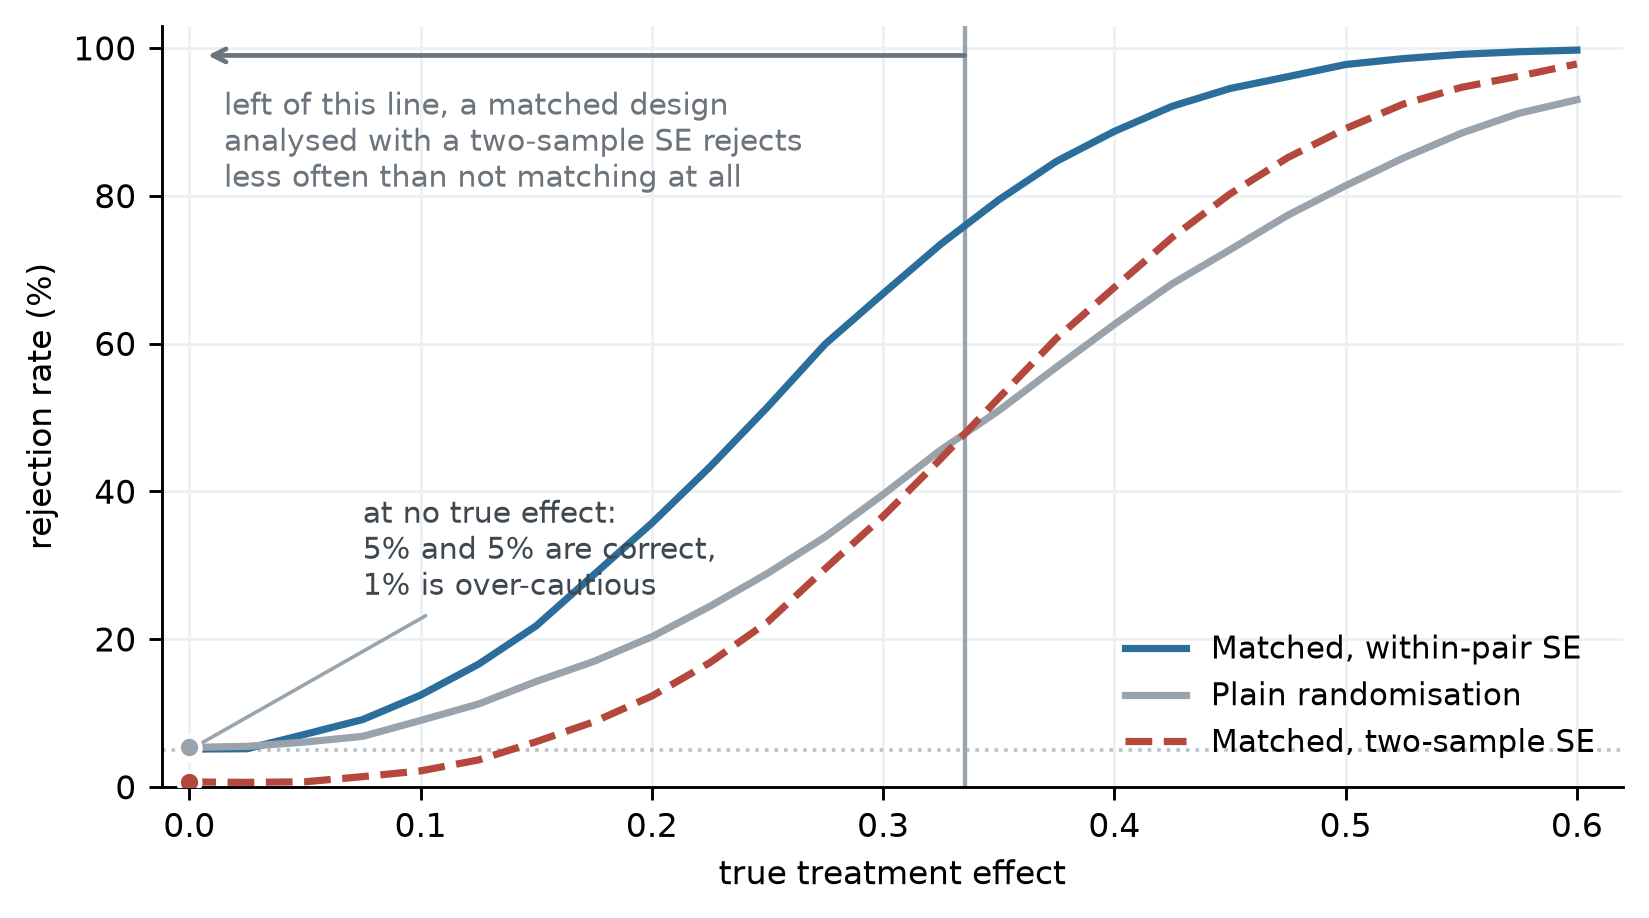
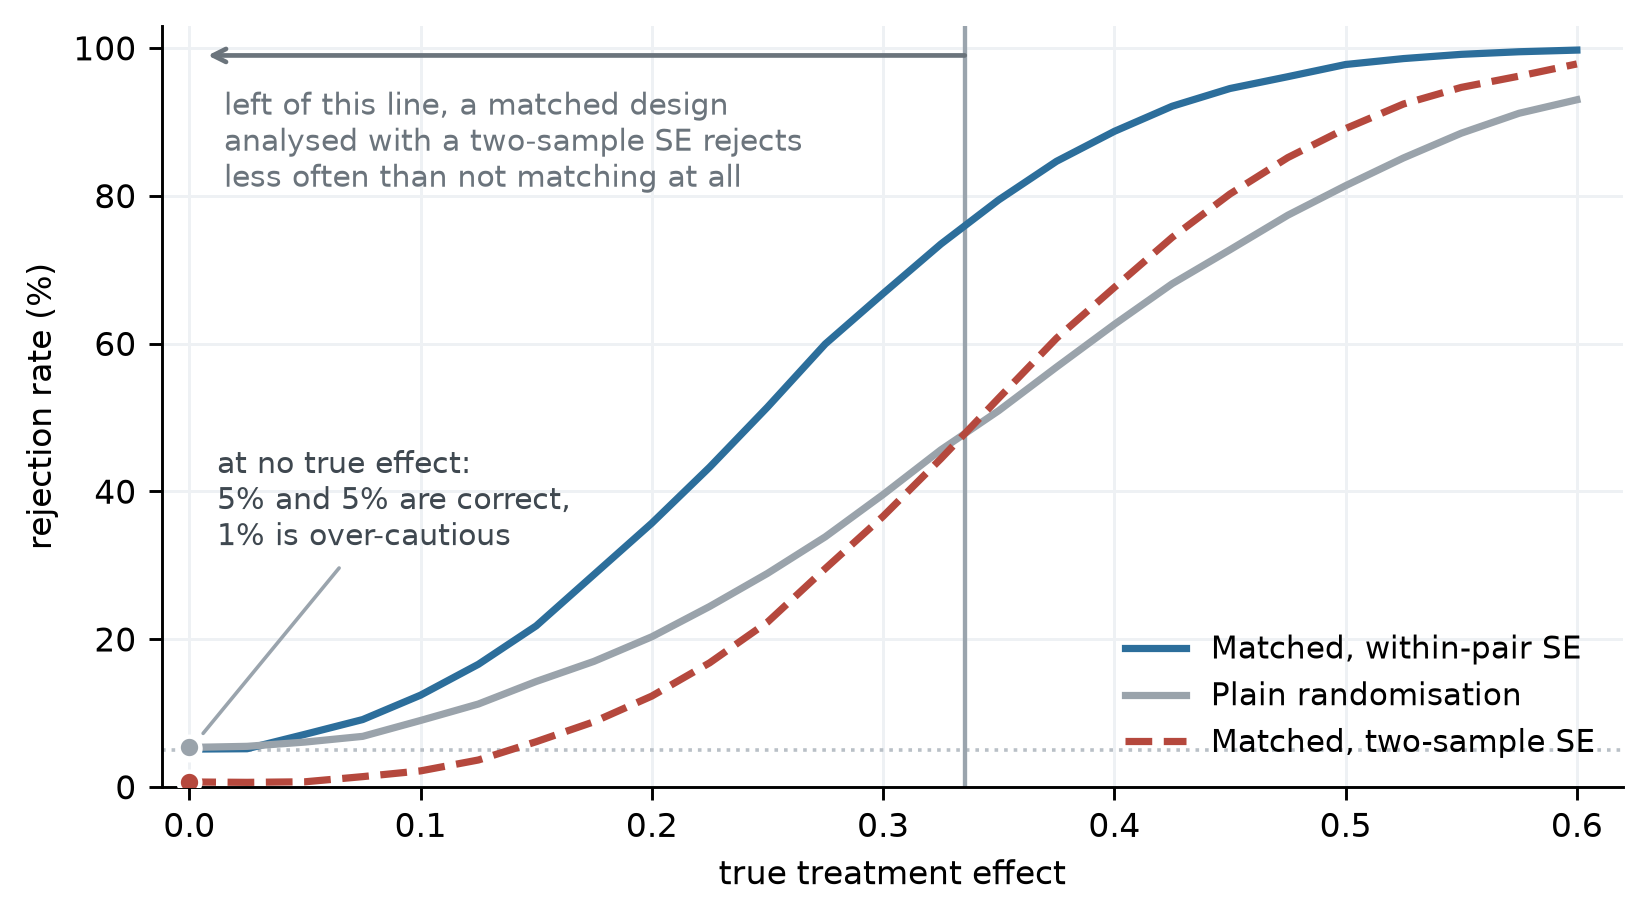
Align the sinks tick labels with the slider thumb
The five labels were laid out as equal flex boxes, which puts their centres at
(k + 0.5)/5 of the width while the thumb for value k sits at k/4 of the track.
Only the middle label agreed, so 2 and 6 appeared crowded towards 4. Each label
is now positioned at the thumb's own centre, half a thumb in from each end of
the travel. Measured on the rendered page the centres are 8, 203.8, 399.5,
595.3 and 791 across a 799px track, against 79.9, 239.7, 399.5, 559.3 and 719.1
before.

Also moves the no-effect note on the power plot out to the left margin, where
it no longer crosses the rising curves.

diff --git a/docs/posts/pairwise-matching/index.html b/docs/posts/pairwise-matching/index.html
@@ -77,7 +77,10 @@ ul.task-list li input[type="checkbox"] {
 }</script>
 <script src="https://cdn.jsdelivr.net/npm/requirejs@2.3.6/require.min.js" integrity="sha384-c9c+LnTbwQ3aujuU7ULEPVvgLs+Fn6fJUvIGTsuu1ZcCf11fiEubah0ttpca4ntM sha384-6V1/AdqZRWk1KAlWbKBlGhN7VG4iE/yAZcO6NZPMF8od0vukrvr0tg4qY6NSrItx" crossorigin="anonymous"></script>
 
+
+
 <script type="application/javascript">define('jquery', [],function() {return window.jQuery;})</script>
+
 
   <script src="https://cdnjs.cloudflare.com/polyfill/v3/polyfill.min.js?features=es6"></script>
   <script defer="" src="https://cdn.jsdelivr.net/npm/mathjax@4/tex-chtml.js" type="text/javascript"></script>
@@ -522,37 +525,37 @@ Table&nbsp;1: Optimal against greedy pairing on the same samples. Greedy loses s
 <style type="text/css">
 </style>
 
-<table id="T_49d6a" class="cell caption-top table table-sm table-striped small">
+<table id="T_18522" class="cell caption-top table table-sm table-striped small">
 <thead>
 <tr class="header">
-<th id="T_49d6a_level0_col0" class="col_heading level0 col0" data-quarto-table-cell-role="th">Sample</th>
-<th id="T_49d6a_level0_col1" class="col_heading level0 col1" data-quarto-table-cell-role="th">Total D<sup>2</sup>, optimal</th>
-<th id="T_49d6a_level0_col2" class="col_heading level0 col2" data-quarto-table-cell-role="th">Total D<sup>2</sup>, greedy</th>
-<th id="T_49d6a_level0_col3" class="col_heading level0 col3" data-quarto-table-cell-role="th">Worst pair, optimal</th>
-<th id="T_49d6a_level0_col4" class="col_heading level0 col4" data-quarto-table-cell-role="th">Worst pair, greedy</th>
+<th id="T_18522_level0_col0" class="col_heading level0 col0" data-quarto-table-cell-role="th">Sample</th>
+<th id="T_18522_level0_col1" class="col_heading level0 col1" data-quarto-table-cell-role="th">Total D<sup>2</sup>, optimal</th>
+<th id="T_18522_level0_col2" class="col_heading level0 col2" data-quarto-table-cell-role="th">Total D<sup>2</sup>, greedy</th>
+<th id="T_18522_level0_col3" class="col_heading level0 col3" data-quarto-table-cell-role="th">Worst pair, optimal</th>
+<th id="T_18522_level0_col4" class="col_heading level0 col4" data-quarto-table-cell-role="th">Worst pair, greedy</th>
 </tr>
 </thead>
 <tbody>
 <tr class="odd">
-<td id="T_49d6a_row0_col0" class="data row0 col0">N = 100, k = 4</td>
-<td id="T_49d6a_row0_col1" class="data row0 col1">63.0</td>
-<td id="T_49d6a_row0_col2" class="data row0 col2">82.1 (+30%)</td>
-<td id="T_49d6a_row0_col3" class="data row0 col3">5.47</td>
-<td id="T_49d6a_row0_col4" class="data row0 col4">10.41 (1.9×)</td>
+<td id="T_18522_row0_col0" class="data row0 col0">N = 100, k = 4</td>
+<td id="T_18522_row0_col1" class="data row0 col1">63.0</td>
+<td id="T_18522_row0_col2" class="data row0 col2">82.1 (+30%)</td>
+<td id="T_18522_row0_col3" class="data row0 col3">5.47</td>
+<td id="T_18522_row0_col4" class="data row0 col4">10.41 (1.9×)</td>
 </tr>
 <tr class="even">
-<td id="T_49d6a_row1_col0" class="data row1 col0">N = 200, k = 4</td>
-<td id="T_49d6a_row1_col1" class="data row1 col1">78.5</td>
-<td id="T_49d6a_row1_col2" class="data row1 col2">113.2 (+44%)</td>
-<td id="T_49d6a_row1_col3" class="data row1 col3">4.70</td>
-<td id="T_49d6a_row1_col4" class="data row1 col4">14.80 (3.1×)</td>
+<td id="T_18522_row1_col0" class="data row1 col0">N = 200, k = 4</td>
+<td id="T_18522_row1_col1" class="data row1 col1">78.5</td>
+<td id="T_18522_row1_col2" class="data row1 col2">113.2 (+44%)</td>
+<td id="T_18522_row1_col3" class="data row1 col3">4.70</td>
+<td id="T_18522_row1_col4" class="data row1 col4">14.80 (3.1×)</td>
 </tr>
 <tr class="odd">
-<td id="T_49d6a_row2_col0" class="data row2 col0">N = 200, k = 8</td>
-<td id="T_49d6a_row2_col1" class="data row2 col1">409.1</td>
-<td id="T_49d6a_row2_col2" class="data row2 col2">505.0 (+23%)</td>
-<td id="T_49d6a_row2_col3" class="data row2 col3">10.20</td>
-<td id="T_49d6a_row2_col4" class="data row2 col4">54.08 (5.3×)</td>
+<td id="T_18522_row2_col0" class="data row2 col0">N = 200, k = 8</td>
+<td id="T_18522_row2_col1" class="data row2 col1">409.1</td>
+<td id="T_18522_row2_col2" class="data row2 col2">505.0 (+23%)</td>
+<td id="T_18522_row2_col3" class="data row2 col3">10.20</td>
+<td id="T_18522_row2_col4" class="data row2 col4">54.08 (5.3×)</td>
 </tr>
 </tbody>
 </table>
@@ -633,11 +636,11 @@ Figure&nbsp;1: How much data each design is worth. A bar of two means the experi
 .sk-wrap .sk-readout b { color:#21252b; font-variant-numeric:tabular-nums; }
 .sk-wrap .sk-sep { margin:0 .55rem; opacity:.45; }
 .sk-wrap input[type=range] { width:100%; margin:0; accent-color:#2c6e9b; }
-.sk-wrap .sk-labels { display:flex; justify-content:space-between;
-  font-size:.82rem; color:#8a929a; margin-top:.3rem; padding:0 9px; }
-.sk-wrap .sk-labels span { cursor:pointer; flex:1; text-align:center; }
-.sk-wrap .sk-labels span:first-child { text-align:left; }
-.sk-wrap .sk-labels span:last-child { text-align:right; }
+.sk-wrap .sk-labels { position:relative; height:1.15rem; margin-top:.3rem;
+  font-size:.82rem; color:#8a929a; --thumb:16px; }
+.sk-wrap .sk-labels span { position:absolute; cursor:pointer;
+  white-space:nowrap; transform:translateX(-50%);
+  left:calc(var(--thumb) / 2 + var(--p) * (100% - var(--thumb))); }
 .sk-wrap .sk-labels span.sk-on { color:#2c4a63; font-weight:600; }
 </style>
 <div class="sk-wrap" id="sk-demo">
@@ -645,7 +648,7 @@ Figure&nbsp;1: How much data each design is worth. A bar of two means the experi
   <div class="sk-readout"></div>
   <input type="range" min="0" max="4" step="1" value="0" aria-label="Number of sinks added">
   <div class="sk-labels">
-    <span>0</span><span>2</span><span>4</span><span>6</span><span>8</span>
+    <span style="--p:0">0</span><span style="--p:.25">2</span><span style="--p:.5">4</span><span style="--p:.75">6</span><span style="--p:1">8</span>
   </div>
 </div>
 <script>/* Sinks: excluding the units that have nothing near them.
@@ -658,7 +661,7 @@ Figure&nbsp;1: How much data each design is worth. A bar of two means the experi
 (function () {
   var root = document.getElementById("sk-demo");
   if (!root) return;
-  var D = {"pts": [[-0.0911, -0.6015], [-0.4188, 0.122], [-1.4702, -1.0021], [-1.0987, 0.5612], [-0.5339, 0.1196], [0.4792, 0.028], [-0.6636, 0.1425], [0.4457, 0.2838], [-0.2276, -1.5344], [-0.6238, -0.3738], [0.8317, -1.5537], [-0.3263, -1.1296], [0.9926, -0.7803], [-0.7276, 0.156], [0.6794, -0.1952], [-0.6435, 0.0267], [0.171, 0.8508], [-0.3005, -0.7518], [-0.1136, 0.2227], [-1.4093, -0.4583], [-0.0128, -0.9811], [1.1991, -0.8328], [-0.7472, -0.3576], [-0.5001, 1.0954], [-0.2181, 0.4575], [-1.3394, -0.5572], [-0.1043, 0.5867], [1.3365, -0.6999], [0.5602, 0.3027], [0.2677, -0.3245], [-0.6966, -0.5368], [-0.4634, 0.1026], [-0.6107, -0.228], [-0.4152, 0.8093], [0.4344, 0.2358], [0.0887, 1.6896], [1.4878, -0.2479], [-0.3693, 0.0476], [1.3082, 0.2694], [1.1168, -0.315], [2.8499, 3.1707], [-2.6232, 1.3199], [2.3447, -2.1123], [0.1554, 2.9732]], "states": [{"sinks": 0, "dropped": [], "pairs": [[43, 40, 7.299], [16, 35, 0.7104], [4, 15, 0.0206], [37, 18, 0.096], [11, 8, 0.1736], [0, 20, 0.1502], [9, 32, 0.0214], [31, 1, 0.0024], [24, 26, 0.0296], [21, 12, 0.0454], [10, 42, 2.601], [7, 28, 0.0135], [23, 33, 0.0891], [30, 17, 0.2031], [27, 39, 0.1964], [6, 13, 0.0043], [34, 5, 0.0452], [25, 2, 0.2151], [14, 29, 0.1861], [19, 22, 0.4485], [36, 38, 0.2999], [3, 41, 2.8997]], "worst": 7.298955022521012, "total": 15.750571077108093}, {"sinks": 2, "dropped": [40, 41], "pairs": [[6, 15, 0.0138], [1, 37, 0.008], [11, 8, 0.1736], [0, 20, 0.1502], [31, 4, 0.0053], [9, 32, 0.0214], [21, 12, 0.0454], [7, 28, 0.0135], [42, 10, 2.601], [23, 33, 0.0891], [30, 17, 0.2031], [27, 39, 0.1964], [26, 16, 0.1456], [43, 35, 1.6519], [34, 5, 0.0452], [25, 2, 0.2151], [14, 29, 0.1861], [13, 3, 0.3019], [19, 22, 0.4485], [36, 38, 0.2999], [24, 18, 0.066]], "worst": 2.6009785446027096, "total": 6.881183976415324}, {"sinks": 4, "dropped": [40, 41, 42, 43], "pairs": [[1, 31, 0.0024], [12, 10, 0.6241], [16, 35, 0.7104], [3, 13, 0.3019], [37, 18, 0.096], [11, 8, 0.1736], [32, 15, 0.0659], [0, 29, 0.2055], [24, 26, 0.0296], [39, 14, 0.2057], [7, 28, 0.0135], [21, 27, 0.0365], [23, 33, 0.0891], [17, 20, 0.1353], [6, 4, 0.0173], [2, 25, 0.2151], [34, 5, 0.0452], [19, 22, 0.4485], [36, 38, 0.2999], [9, 30, 0.0319]], "worst": 0.7103739688748988, "total": 3.7475234307956335}, {"sinks": 6, "dropped": [2, 35, 40, 41, 42, 43], "pairs": [[6, 15, 0.0138], [1, 37, 0.008], [12, 10, 0.6241], [3, 13, 0.3019], [11, 8, 0.1736], [5, 34, 0.0452], [9, 32, 0.0214], [0, 29, 0.2055], [39, 14, 0.2057], [7, 28, 0.0135], [21, 27, 0.0365], [23, 33, 0.0891], [17, 20, 0.1353], [26, 16, 0.1456], [22, 30, 0.0347], [4, 31, 0.0053], [19, 25, 0.0147], [36, 38, 0.2999], [24, 18, 0.066]], "worst": 0.624085463615999, "total": 2.4398100109002105}, {"sinks": 8, "dropped": [2, 8, 10, 35, 40, 41, 42, 43], "pairs": [[6, 15, 0.0138], [1, 37, 0.008], [3, 13, 0.3019], [0, 17, 0.0664], [11, 20, 0.1203], [5, 34, 0.0452], [9, 32, 0.0214], [21, 12, 0.0454], [7, 28, 0.0135], [23, 33, 0.0891], [27, 39, 0.1964], [26, 16, 0.1456], [38, 36, 0.2999], [22, 30, 0.0347], [4, 31, 0.0053], [14, 29, 0.1861], [19, 25, 0.0147], [24, 18, 0.066]], "worst": 0.30193829909503783, "total": 1.6737052917557507}], "xlab": "covariate 1", "colors": {"blue": "#2c6e9b", "dark": "#2c4a63", "red": "#b5483d", "green": "#4f8f63", "grey": "#9aa3ab", "grid": "#ccd4db", "axis": "#9aa4ad", "tick": "#3f4850"}};
+  var D = {"pts": [[-0.0911, -0.6015], [-0.4188, 0.122], [-1.4702, -1.0021], [-1.0987, 0.5612], [-0.5339, 0.1196], [0.4792, 0.028], [-0.6636, 0.1425], [0.4457, 0.2838], [-0.2276, -1.5344], [-0.6238, -0.3738], [0.8317, -1.5537], [-0.3263, -1.1296], [0.9926, -0.7803], [-0.7276, 0.156], [0.6794, -0.1952], [-0.6435, 0.0267], [0.171, 0.8508], [-0.3005, -0.7518], [-0.1136, 0.2227], [-1.4093, -0.4583], [-0.0128, -0.9811], [1.1991, -0.8328], [-0.7472, -0.3576], [-0.5001, 1.0954], [-0.2181, 0.4575], [-1.3394, -0.5572], [-0.1043, 0.5867], [1.3365, -0.6999], [0.5602, 0.3027], [0.2677, -0.3245], [-0.6966, -0.5368], [-0.4634, 0.1026], [-0.6107, -0.228], [-0.4152, 0.8093], [0.4344, 0.2358], [0.0887, 1.6896], [1.4878, -0.2479], [-0.3693, 0.0476], [1.3082, 0.2694], [1.1168, -0.315], [2.8499, 3.1707], [-2.6232, 1.3199], [2.3447, -2.1123], [0.1554, 2.9732]], "states": [{"sinks": 0, "dropped": [], "pairs": [[43, 40, 7.299], [16, 35, 0.7104], [4, 15, 0.0206], [37, 18, 0.096], [11, 8, 0.1736], [0, 20, 0.1502], [9, 32, 0.0214], [31, 1, 0.0024], [24, 26, 0.0296], [21, 12, 0.0454], [10, 42, 2.601], [7, 28, 0.0135], [23, 33, 0.0891], [30, 17, 0.2031], [27, 39, 0.1964], [6, 13, 0.0043], [34, 5, 0.0452], [25, 2, 0.2151], [14, 29, 0.1861], [19, 22, 0.4485], [36, 38, 0.2999], [3, 41, 2.8997]], "worst": 7.298955022521012, "total": 15.750571077108093}, {"sinks": 2, "dropped": [40, 41], "pairs": [[6, 15, 0.0138], [1, 37, 0.008], [11, 8, 0.1736], [0, 20, 0.1502], [31, 4, 0.0053], [9, 32, 0.0214], [21, 12, 0.0454], [7, 28, 0.0135], [42, 10, 2.601], [23, 33, 0.0891], [30, 17, 0.2031], [27, 39, 0.1964], [26, 16, 0.1456], [43, 35, 1.6519], [34, 5, 0.0452], [25, 2, 0.2151], [14, 29, 0.1861], [13, 3, 0.3019], [19, 22, 0.4485], [36, 38, 0.2999], [24, 18, 0.066]], "worst": 2.6009785446027096, "total": 6.881183976415324}, {"sinks": 4, "dropped": [40, 41, 42, 43], "pairs": [[1, 31, 0.0024], [12, 10, 0.6241], [16, 35, 0.7104], [3, 13, 0.3019], [37, 18, 0.096], [11, 8, 0.1736], [32, 15, 0.0659], [0, 29, 0.2055], [24, 26, 0.0296], [39, 14, 0.2057], [7, 28, 0.0135], [21, 27, 0.0365], [23, 33, 0.0891], [17, 20, 0.1353], [6, 4, 0.0173], [2, 25, 0.2151], [34, 5, 0.0452], [19, 22, 0.4485], [36, 38, 0.2999], [9, 30, 0.0319]], "worst": 0.7103739688748988, "total": 3.7475234307956335}, {"sinks": 6, "dropped": [2, 35, 40, 41, 42, 43], "pairs": [[1, 37, 0.008], [6, 15, 0.0138], [12, 10, 0.6241], [3, 13, 0.3019], [11, 8, 0.1736], [5, 34, 0.0452], [9, 32, 0.0214], [0, 29, 0.2055], [39, 14, 0.2057], [7, 28, 0.0135], [21, 27, 0.0365], [23, 33, 0.0891], [17, 20, 0.1353], [26, 16, 0.1456], [22, 30, 0.0347], [4, 31, 0.0053], [19, 25, 0.0147], [36, 38, 0.2999], [24, 18, 0.066]], "worst": 0.624085463615999, "total": 2.4398100109002105}, {"sinks": 8, "dropped": [2, 8, 10, 35, 40, 41, 42, 43], "pairs": [[6, 15, 0.0138], [1, 37, 0.008], [3, 13, 0.3019], [0, 17, 0.0664], [11, 20, 0.1203], [5, 34, 0.0452], [9, 32, 0.0214], [21, 12, 0.0454], [7, 28, 0.0135], [23, 33, 0.0891], [27, 39, 0.1964], [26, 16, 0.1456], [38, 36, 0.2999], [22, 30, 0.0347], [4, 31, 0.0053], [14, 29, 0.1861], [19, 25, 0.0147], [24, 18, 0.066]], "worst": 0.30193829909503783, "total": 1.6737052917557507}], "xlab": "covariate 1", "colors": {"blue": "#2c6e9b", "dark": "#2c4a63", "red": "#b5483d", "green": "#4f8f63", "grey": "#9aa3ab", "grid": "#ccd4db", "axis": "#9aa4ad", "tick": "#3f4850"}};
 
   var canvas = root.querySelector("canvas");
   var ctx = canvas.getContext("2d");

diff --git a/docs/index.html b/docs/index.html
@@ -277,7 +277,7 @@ Aug 24, 2026
 </a>
 </div>
 </div>
-<div class="quarto-post image-right" data-index="1" data-categories="bWF0Y2hpbmclMkNkZXNpZ24lMkNpbmZlcmVuY2U=" data-listing-date-sort="1787526000000" data-listing-file-modified-sort="1791705312167" data-listing-date-modified-sort="NaN" data-listing-reading-time-sort="28" data-listing-word-count-sort="5578">
+<div class="quarto-post image-right" data-index="1" data-categories="bWF0Y2hpbmclMkNkZXNpZ24lMkNpbmZlcmVuY2U=" data-listing-date-sort="1787526000000" data-listing-file-modified-sort="1792008927013" data-listing-date-modified-sort="NaN" data-listing-reading-time-sort="29" data-listing-word-count-sort="5635">
 <div class="body">
 <h3 class="no-anchor listing-title">
 <a href="./posts/pairwise-matching/index.html" class="no-external">Pairwise matching</a>
